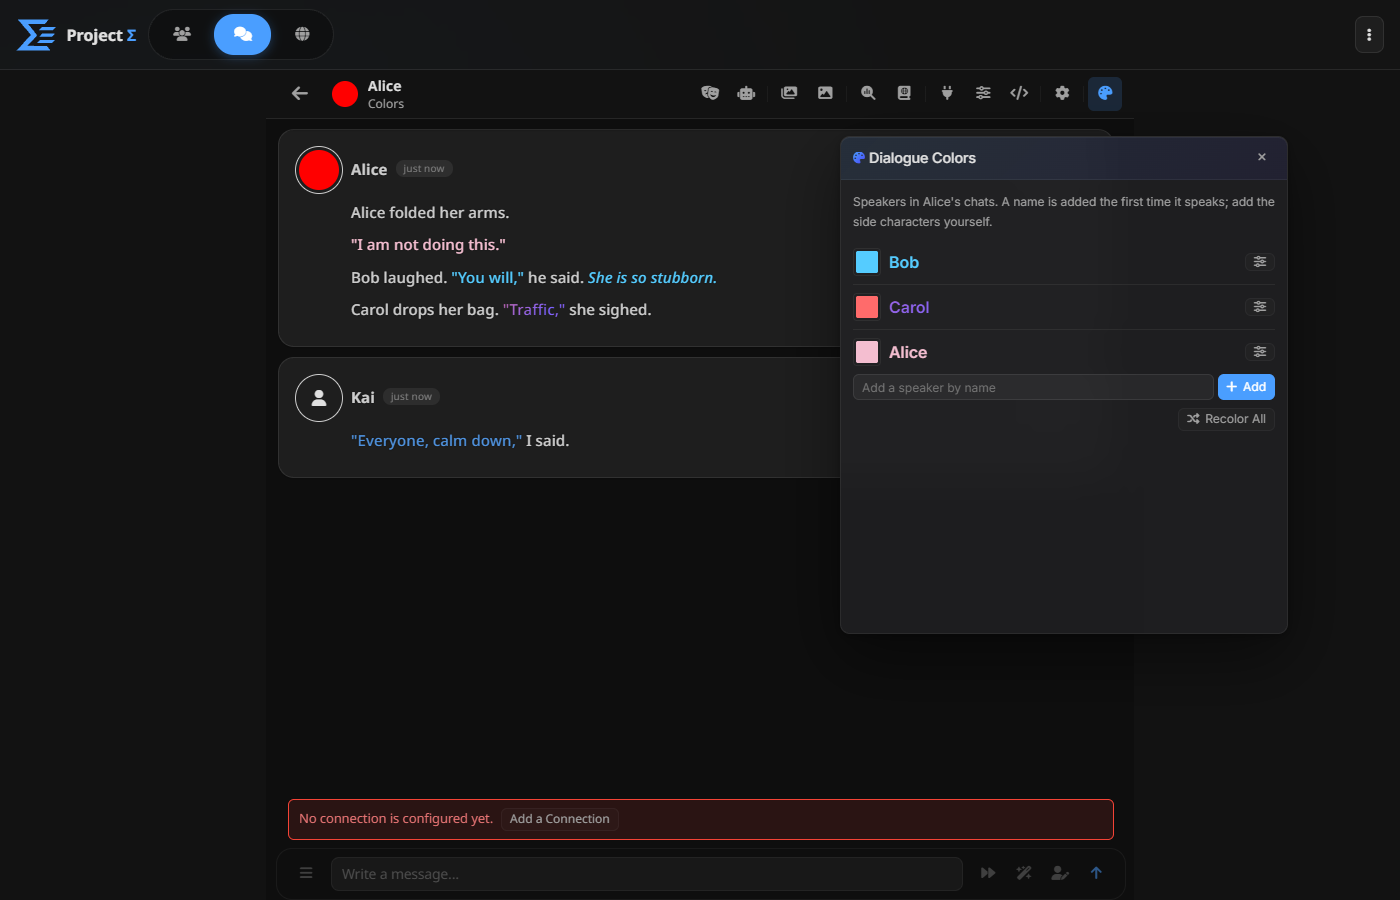
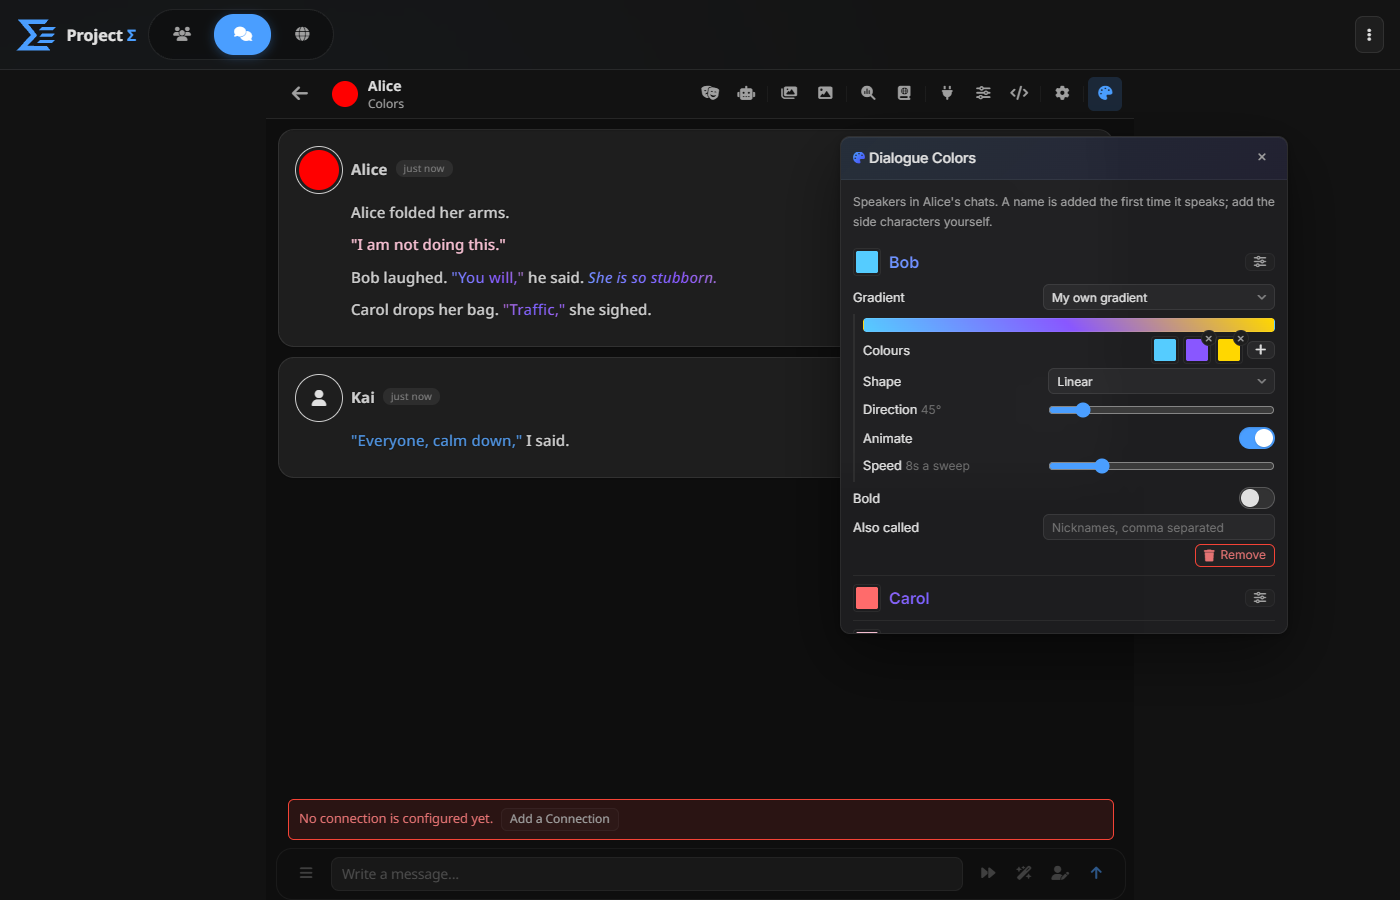
v0.2.0: make your own gradient (colours, shape, direction, speed); switches render again

diff --git a/client/index.js b/client/index.js
@@ -5,11 +5,11 @@
 
 import { cardRegistry, emptyDoc, normalizeDoc, overridesFor, setOverrides, updateEntry } from './core/store.js';
 import {
-    GRADIENT_PRESET_NAMES, PALETTE_NAMES, addSpeaker, applyPreset, buildStylesheet, randomGradient,
-    recolorAll, resolveKey, speakerClass,
+    GRADIENT_KINDS, GRADIENT_PRESET_NAMES, MAX_OWN_STOPS, PALETTE_NAMES, addSpeaker, applyPreset, buildStylesheet,
+    editGradient, randomGradient, recolorAll, resolveKey, speakerClass, startGradient,
 } from './core/registry.js';
 import { attribute, expandNames, paintBody } from './core/paint.js';
-import { normalizeGradient } from './vendor/dialogue-colors/gradients.js';
+import { buildGradientCss, normalizeGradient } from './vendor/dialogue-colors/gradients.js';
 
 const ID = 'dialogue-colors';
 const STYLE_ID = 'dc-speaker-styles';
@@ -137,11 +137,51 @@ function gradientChoice(entry) {
     return entry.gradientPreset || 'custom';
 }
 
+// the gradient's own controls: its colours after the speaker's, its shape and its motion
+function editorHtml(entry, g) {
+    const css = buildGradientCss(entry) || entry.color;
+    const stops = g.stops.map((st, i) => `
+        <span class="dc-stop">
+            <input type="color" class="dc-color" data-dc="stop" data-i="${i}" value="${esc(st.color)}" aria-label="Gradient colour ${i + 2}">
+            ${g.stops.length > 1 ? `<button type="button" class="dc-stop-drop" data-dc="drop" data-i="${i}" title="Remove this colour" aria-label="Remove colour ${i + 2}"><i class="fa-solid fa-xmark" aria-hidden="true"></i></button>` : ''}
+        </span>`).join('');
+    const angled = g.type !== 'radial';
+    return `
+        <div class="dc-grad">
+            <div class="dc-grad-preview" style="background-image: ${esc(css)}"></div>
+            <div class="cl-cwin-field">
+                <span class="cl-cwin-field-label">Colours</span>
+                <span class="dc-stops">
+                    <span class="dc-stop"><input type="color" class="dc-color" data-dc="color" value="${esc(entry.color)}" aria-label="Gradient colour 1 (the speaker's colour)" title="The speaker's colour"></span>
+                    ${stops}
+                    ${g.stops.length < MAX_OWN_STOPS ? '<button type="button" class="cl-cwin-btn-text dc-stop-add" data-dc="add-stop" title="Add a colour" aria-label="Add a colour"><i class="fa-solid fa-plus" aria-hidden="true"></i></button>' : ''}
+                </span>
+            </div>
+            <div class="cl-cwin-field">
+                <span class="cl-cwin-field-label">Shape</span>
+                <select class="cl-select-fluid cl-cwin-field-control" data-dc="gtype">${GRADIENT_KINDS.map(k => `<option value="${k}"${k === g.type ? ' selected' : ''}>${k === 'linear' ? 'Linear' : k === 'radial' ? 'Radial' : 'Conic (sweep)'}</option>`).join('')}</select>
+            </div>
+            <div class="cl-cwin-field${angled ? '' : ' is-off'}">
+                <span class="cl-cwin-field-label">Direction <span class="cl-cwin-dim" data-dc-readout="angle">${Math.round(g.angle)}°</span></span>
+                <input type="range" class="cl-cwin-field-control" data-dc="angle" min="0" max="360" step="5" value="${Math.round(g.angle)}"${angled ? '' : ' disabled'}>
+            </div>
+            <label class="cl-cwin-field cl-cwin-toggle">
+                <span class="cl-cwin-field-label">Animate</span>
+                <input type="checkbox" class="cl-switch-input" data-dc="animate"${g.animation.enabled ? ' checked' : ''}><span class="cl-switch" aria-hidden="true"></span>
+            </label>
+            <div class="cl-cwin-field${g.animation.enabled ? '' : ' is-off'}">
+                <span class="cl-cwin-field-label">Speed <span class="cl-cwin-dim" data-dc-readout="speed">${g.animation.duration}s a sweep</span></span>
+                <input type="range" class="cl-cwin-field-control" data-dc="speed" min="2" max="30" step="1" value="${Math.round(g.animation.duration)}"${g.animation.enabled ? '' : ' disabled'}>
+            </div>
+        </div>`;
+}
+
 function rowHtml(key, entry) {
     const g = normalizeGradient(entry.gradient);
     const choice = gradientChoice(entry);
-    const options = ['<option value="">Solid colour</option>', '<option value="random">New random gradient</option>']
-        .concat(choice === 'custom' ? ['<option value="custom" selected>Custom gradient</option>'] : [])
+    const options = ['<option value="">Solid colour</option>',
+        `<option value="custom"${choice === 'custom' ? ' selected' : ''}>${choice === 'custom' ? 'My own gradient' : 'Make my own gradient'}</option>`,
+        '<option value="random">New random gradient</option>']
         .concat(GRADIENT_PRESET_NAMES.map(n => `<option value="${esc(n)}"${n === choice ? ' selected' : ''}>${esc(n.replace(/-/g, ' '))}</option>`))
         .join('');
     return `
@@ -156,13 +196,10 @@ function rowHtml(key, entry) {
                     <span class="cl-cwin-field-label">Gradient</span>
                     <select class="cl-select-fluid cl-cwin-field-control" data-dc="gradient">${options}</select>
                 </div>
-                <label class="cl-cwin-field cl-cwin-toggle${g ? '' : ' is-off'}">
-                    <span class="cl-cwin-field-label">Animate the gradient</span>
-                    <span><input type="checkbox" class="cl-switch-input" data-dc="animate"${g?.animation?.enabled ? ' checked' : ''}${g ? '' : ' disabled'}><span class="cl-switch" aria-hidden="true"></span></span>
-                </label>
+                ${g ? editorHtml(entry, g) : ''}
                 <label class="cl-cwin-field cl-cwin-toggle">
                     <span class="cl-cwin-field-label">Bold</span>
-                    <span><input type="checkbox" class="cl-switch-input" data-dc="bold"${entry.bold ? ' checked' : ''}><span class="cl-switch" aria-hidden="true"></span></span>
+                    <input type="checkbox" class="cl-switch-input" data-dc="bold"${entry.bold ? ' checked' : ''}><span class="cl-switch" aria-hidden="true"></span>
                 </label>
                 <div class="cl-cwin-field">
                     <span class="cl-cwin-field-label">Also called</span>
@@ -214,12 +251,38 @@ function wireWindow(body) {
         saveSoon();
         if (attribution) repaint();
     };
+    // a gradient's preview follows the drag; the speakers' stylesheet with it
+    const showPreview = (row, entry) => {
+        const box = row?.querySelector('.dc-grad-preview');
+        if (box) box.style.backgroundImage = buildGradientCss(entry) || entry.color;
+        for (const pick of row?.querySelectorAll('[data-dc="color"]') || []) if (pick.value !== entry.color) pick.value = entry.color;
+    };
+    const gradientChange = (el) => {
+        const d = el.dataset.dc;
+        if (d === 'stop') return { kind: 'stop', index: Number(el.dataset.i), color: el.value };
+        if (d === 'angle' || d === 'speed') return { kind: d, value: el.value };
+        return null;
+    };
     body.addEventListener('input', (e) => {
         const el = e.target;
-        if (el.dataset?.dc !== 'color') return;
-        const key = rowOf(el)?.dataset.key;
-        // a new base colour keeps the gradient's other stops
-        if (key && updateEntry(regNow(), key, { color: el.value })) refreshStyles();
+        const row = rowOf(el);
+        const key = row?.dataset.key;
+        const reg = regNow();
+        if (!key || !reg[key]) return;
+        if (el.dataset?.dc === 'color') {
+            // a new base colour keeps the gradient's other stops
+            if (updateEntry(reg, key, { color: el.value })) { refreshStyles(); showPreview(row, reg[key]); }
+            return;
+        }
+        const change = gradientChange(el);
+        if (!change) return;
+        const g = editGradient(reg[key].gradient, change);
+        if (!g) return;
+        updateEntry(reg, key, { gradient: g, gradientPreset: '' });
+        refreshStyles();
+        showPreview(row, reg[key]);
+        const readout = row.querySelector(`[data-dc-readout="${el.dataset.dc}"]`);
+        if (readout) readout.textContent = el.dataset.dc === 'angle' ? `${el.value}°` : `${el.value}s a sweep`;
     });
     body.addEventListener('change', (e) => {
         const el = e.target;
@@ -229,11 +292,20 @@ function wireWindow(body) {
         if (!entry) return;
         switch (el.dataset.dc) {
             case 'color': updateEntry(reg, key, { color: el.value }); changed(); break;
+            case 'stop': case 'angle': case 'speed': changed(); drawWindow(); break;
+            case 'gtype': {
+                const g = editGradient(entry.gradient, { kind: 'type', value: el.value });
+                if (g) updateEntry(reg, key, { gradient: g, gradientPreset: '' });
+                changed();
+                drawWindow();
+                break;
+            }
             case 'bold': updateEntry(reg, key, { bold: el.checked }); changed(); break;
             case 'animate': {
                 const g = normalizeGradient(entry.gradient);
                 if (g) updateEntry(reg, key, { gradient: { ...g, animation: { ...g.animation, enabled: el.checked } } });
                 changed();
+                drawWindow();
                 break;
             }
             case 'gradient': {
@@ -241,7 +313,8 @@ function wireWindow(body) {
                 let next = entry;
                 if (!v) next = { ...entry, gradient: null, gradientPreset: '' };
                 else if (v === 'random') next = { ...randomGradient(entry), gradientPreset: '' };
-                else if (v !== 'custom') next = { ...applyPreset(entry, v), gradientPreset: v };
+                else if (v === 'custom') next = { ...entry, gradient: entry.gradient || startGradient(entry), gradientPreset: '' };
+                else next = { ...applyPreset(entry, v), gradientPreset: v };
                 updateEntry(reg, key, next);
                 changed();
                 drawWindow();
@@ -266,6 +339,11 @@ function wireWindow(body) {
             const opening = more.classList.contains('cl-hidden');
             more.classList.toggle('cl-hidden', !opening);
             btn.setAttribute('aria-expanded', String(opening));
+        } else if ((btn.dataset.dc === 'add-stop' || btn.dataset.dc === 'drop') && key && reg[key]) {
+            const g = editGradient(reg[key].gradient, btn.dataset.dc === 'drop' ? { kind: 'drop', index: Number(btn.dataset.i) } : { kind: 'add' });
+            if (g) updateEntry(reg, key, { gradient: g, gradientPreset: '' });
+            changed();
+            drawWindow();
         } else if (btn.dataset.dc === 'remove' && key) {
             delete reg[key];
             changed({ attribution: true });

diff --git a/client/core/registry.js b/client/core/registry.js
@@ -175,3 +175,54 @@ export function buildStylesheet(registries, digest, { animate = true } = {}) {
     }
     return rules.join('\n');
 }
+
+// ---------- the reader's own gradient ----------
+
+export const MAX_OWN_STOPS = 4; // after the speaker's colour: the original's MAX_GRADIENT_SECONDARY_STOPS
+export const GRADIENT_KINDS = Object.freeze(['linear', 'radial', 'conic']);
+
+const hueShift = (hex, deg) => {
+    const [r, g, b] = [1, 3, 5].map(i => parseInt(hex.slice(i, i + 2), 16) / 255);
+    const max = Math.max(r, g, b), min = Math.min(r, g, b);
+    const l = (max + min) / 2;
+    let h = 0, s = 0;
+    if (max !== min) {
+        const d = max - min;
+        s = l > 0.5 ? d / (2 - max - min) : d / (max + min);
+        h = max === r ? ((g - b) / d + (g < b ? 6 : 0)) * 60 : max === g ? ((b - r) / d + 2) * 60 : ((r - g) / d + 4) * 60;
+    }
+    return hslToHex((h + deg) % 360, Math.round(s * 100), Math.round(l * 100));
+};
+
+/** The colours after the speaker's own, spread evenly from the speaker's colour at 0% to 100%. */
+export function withStops(gradient, colors) {
+    const list = colors.map(c => normalizeHexColor(c, null)).filter(Boolean).slice(0, MAX_OWN_STOPS);
+    if (!list.length) return null;
+    return normalizeGradient({
+        ...gradient,
+        primaryPosition: 0,
+        stops: list.map((color, i) => ({ color, baseColor: color, position: Math.round(((i + 1) / list.length) * 100) })),
+    });
+}
+
+/** A first gradient to start from: the speaker's colour into its neighbour on the colour wheel. */
+export function startGradient(entry) {
+    return withStops({ type: 'linear', angle: 90, x: 50, y: 50, animation: { enabled: false, duration: 8, reverse: false } }, [hueShift(entry.color, 60)]);
+}
+
+/** One of the gradient's settings changed; answers the new gradient (null when it has no stops). */
+export function editGradient(gradient, change) {
+    const g = normalizeGradient(gradient);
+    if (!g) return null;
+    const colors = g.stops.map(st => st.color);
+    switch (change.kind) {
+        case 'stop': colors[change.index] = change.color; return withStops(g, colors);
+        case 'add': return colors.length >= MAX_OWN_STOPS ? g : withStops(g, [...colors, hueShift(colors.at(-1), 45)]);
+        case 'drop': return colors.length <= 1 ? g : withStops(g, colors.filter((_, i) => i !== change.index));
+        case 'type': return GRADIENT_KINDS.includes(change.value) ? normalizeGradient({ ...g, type: change.value }) : g;
+        case 'angle': return normalizeGradient({ ...g, angle: Number(change.value) });
+        case 'speed': return normalizeGradient({ ...g, animation: { ...g.animation, duration: Number(change.value) } });
+        case 'reverse': return normalizeGradient({ ...g, animation: { ...g.animation, reverse: !!change.value } });
+        default: return g;
+    }
+}

diff --git a/client/style.css b/client/style.css
@@ -29,6 +29,21 @@
 .dc-add { display: flex; gap: var(--space-xs); min-width: 0; }
 .dc-add .cl-cwin-input { flex: 1; min-width: 0; }
 
+/* ---- the gradient editor ---- */
+.dc-grad { display: flex; flex-direction: column; gap: var(--space-xs); padding: var(--space-xs) 0 var(--space-xs) var(--space-sm); border-left: 2px solid var(--cl-elev-hairline); }
+.dc-grad-preview { block-size: 14px; border-radius: var(--radius-sm); border: 1px solid var(--cl-elev-hairline); background-size: 100% 100%; }
+.dc-stops { display: flex; flex-wrap: wrap; align-items: center; justify-content: flex-end; gap: var(--space-xs); min-width: 0; }
+.dc-stop { position: relative; display: inline-flex; }
+.dc-stop-drop {
+    position: absolute; inset-block-start: -6px; inset-inline-end: -6px; inline-size: 16px; block-size: 16px;
+    display: grid; place-items: center; padding: 0; border-radius: 50%; font-size: 9px; cursor: pointer;
+    background: var(--cl-elev-2, var(--bg-secondary)); color: var(--text-secondary); border: 1px solid var(--cl-elev-hairline);
+}
+.dc-stop-drop:hover { color: var(--cl-error-pale); border-color: var(--cl-error); }
+.dc-stop-add { padding-inline: var(--space-sm); }
+.dc-grad input[type="range"] { accent-color: var(--accent); }
+html.cl-mobile .dc-stop-drop { inline-size: 22px; block-size: 22px; inset-block-start: -9px; inset-inline-end: -9px; }
+
 /* ---- who says what ---- */
 .dc-seg-list { display: flex; flex-direction: column; gap: var(--space-xs); max-height: 60vh; overflow-y: auto; }
 .dc-seg { display: flex; align-items: center; gap: var(--space-sm); flex-wrap: wrap; }

diff --git a/README.md b/README.md
@@ -22,8 +22,9 @@ by platberlitz. Its speaker heuristics come along unchanged.
   line nobody can be matched to takes the message's own speaker.
 - **Keeps a speaker list per character card.** A name is added with a palette colour the first
   time it speaks. Add side characters yourself in the **Dialogue Colors** window (the palette
-  button in the conversation). There you can also change a colour, pick one of 37 gradients or
-  a random one, animate a gradient, make a speaker bold, and give nicknames ("Also called"),
+  button in the conversation). There you can also change a colour, make your own gradient (up to five
+  colours, linear, radial or sweep, any direction, animated at the speed you like), start from
+  one of 37 presets or a random one, make a speaker bold, and give nicknames ("Also called"),
   which count as the same speaker.
 - **Lets you correct a line.** Open a message's menu and pick **Who Says What** to reassign any
   quote. A reassignment lasts while the message's text stays the same: a swipe or an edit
@@ -63,7 +64,6 @@ which colour.
 - [ ] Colour a reply while it streams. Σ only runs `message.render` once a reply is stored, so a
       reply shows plain while it types and takes its colours when it lands. Waiting on a feature
       request.
-- [ ] A custom gradient editor (stops, angle, type); today it is presets and random.
 - [ ] Optional: the legend, per-chat lists, import/export, LLM speaker verification.
 
 ## Licence
